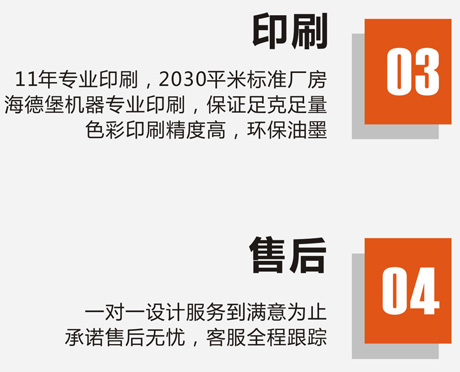
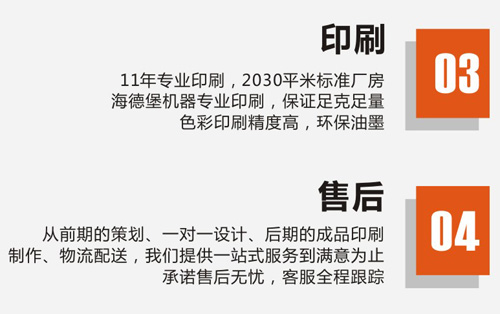
fix UI

Changed region(s): [[0.0, 0.0287, 1.0, 0.4299], [0.0, 0.5732, 1.0, 0.9745]]

diff --git a/SunShine.Web/Css/Bootstrap/home.css b/SunShine.Web/Css/Bootstrap/home.css
@@ -1507,13 +1507,13 @@ ul.advance_item_content_box {
 }
 .core_advance_box_part2 .part_left {
     float: left;
-    width: 520px;
+    width: 510px;
 }
 
 .core_advance_box_part2 .part_right {
     float: left;
-    width:360px;
-    margin-left:96px;
+    width:450px;
+    margin-left:0px;
 }
 .part_left img {
     width: 100%;
@@ -1623,10 +1623,10 @@ ul.advance_item_content_box {
 .jcarousel_more {
         width: 150px;
     float: left;
-    height: 176px;
+    height: 150px;
     margin: 0;
     background-color: #E67817;
-    margin-left: 100px;
+    margin-left: 0px;
     padding-top:20px;
 }
 
@@ -1636,12 +1636,12 @@ ul.advance_item_content_box {
     }
 
     .jcarousel_more .more_ch_title {
-        font-size: 34px;
+        font-size: 26px;
         margin-top: 0;
     }
 
     .jcarousel_more .more_en_title {
-        font-size: 24px;
+        font-size: 18px;
         text-align: center;
         color: #FFFFFF;
         margin-top: 10px;
@@ -1654,8 +1654,8 @@ ul.advance_item_content_box {
         .jcarousel_more .more_button a {
             background-color: #FFFFFF;
             text-align: center;
-            font-size: 18px;
-            padding: 5px 25px;
+            font-size: 16px;
+            padding: 5px 20px;
         }
 
 .partner_carousel {

diff --git a/SunShine.Web/jsor-jcarousel/extra/jcarousel.responsive.css b/SunShine.Web/jsor-jcarousel/extra/jcarousel.responsive.css
@@ -14,9 +14,9 @@
 .jcarousel {
     position: relative;
     overflow: hidden;
-    width: 1000px;
+    width: 800px;
     float: left;
-    margin-left: 60px;
+    margin-left: 30px;
     margin-top: 25px;
     /* margin-bottom: 15px; */
 }
@@ -72,11 +72,11 @@
 }
 
 .jcarousel-control-prev {
-    left: 15px;
+    left: 135px;
 }
 
 .jcarousel-control-next {
-    right: 15px;
+    right: 135px;
 }
 
 /** Carousel Pagination **/

diff --git a/SunShine.Web/Css/Bootstrap/style.css b/SunShine.Web/Css/Bootstrap/style.css
@@ -548,7 +548,7 @@ hr {
 .cp_name {
     width: 220px;
     padding:5px 0;
-    font-size: 20px;
+    font-size: 16px;
     overflow: hidden;
     text-align: center;
     float:left;
@@ -727,7 +727,7 @@ hr {
     width: 90px;
     text-align: center;
     float: right;
-    margin-top: 7px;
+    margin-top: 4px;
     background: #E15517;
         margin-right: 15px;
 }
